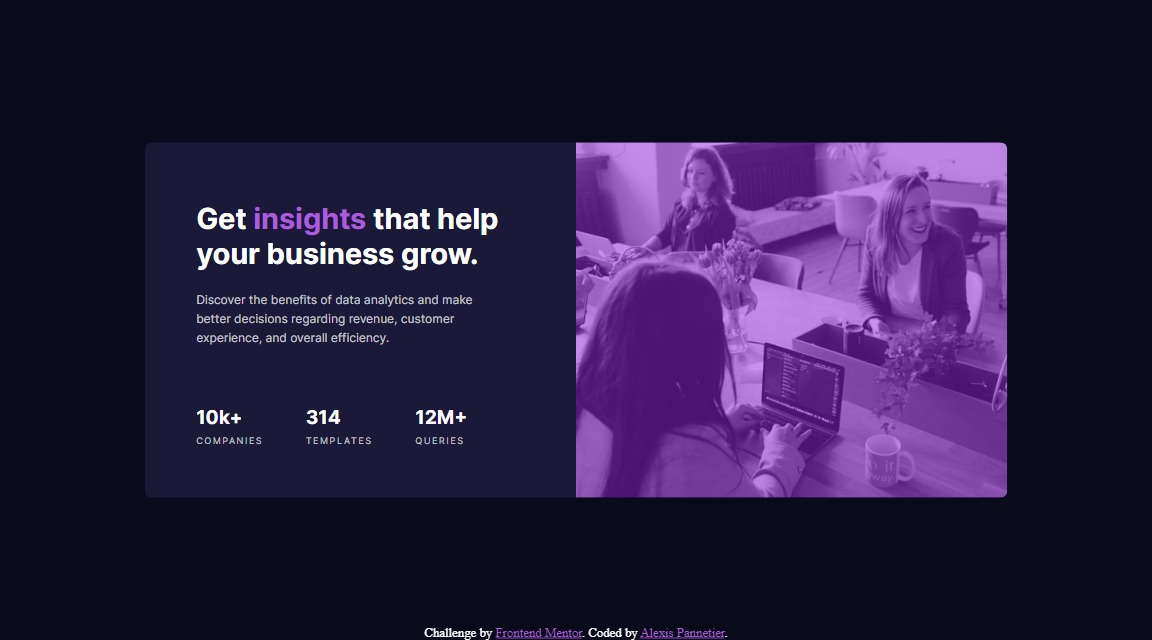
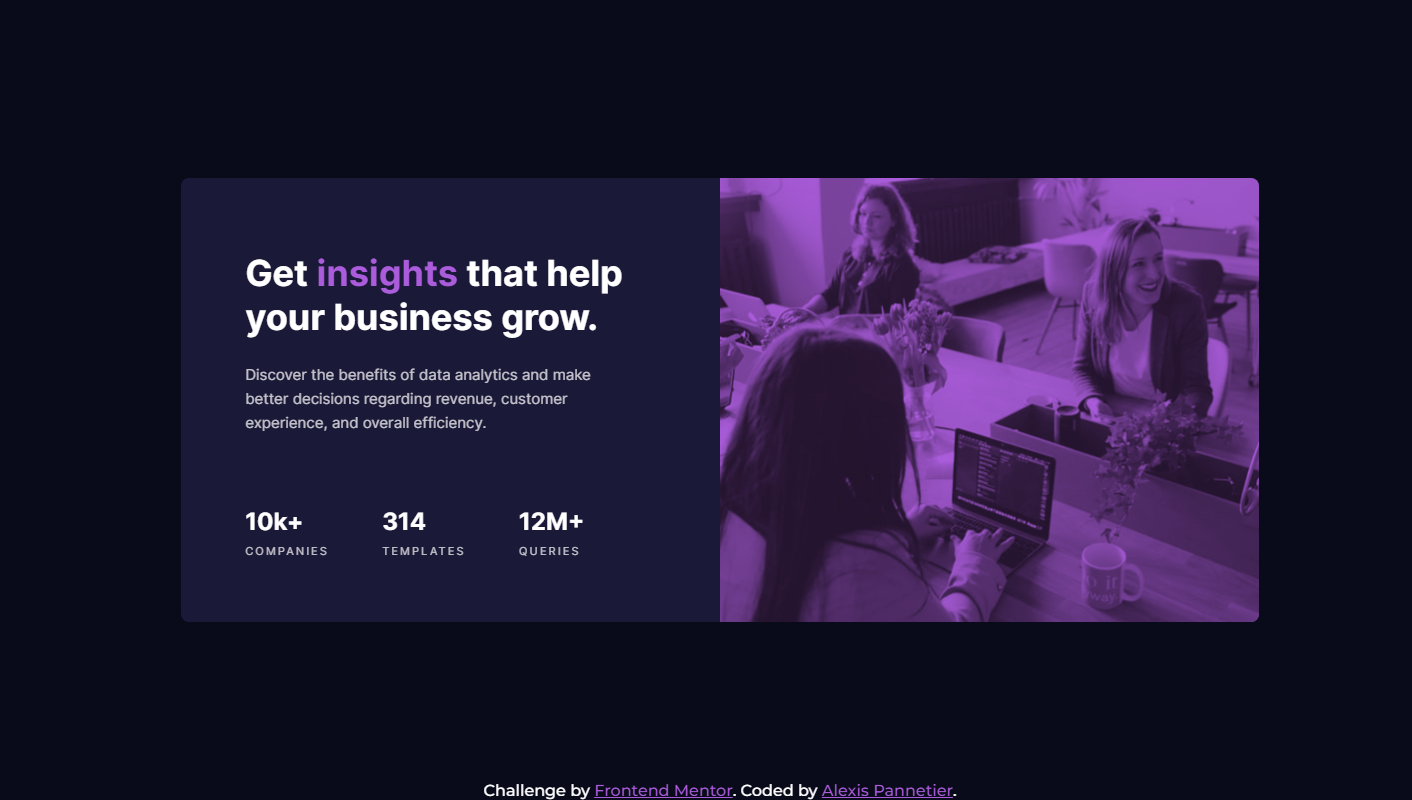
💄 team img updated

diff --git a/style.css b/style.css
@@ -143,7 +143,7 @@ p {
   border-top-left-radius: 0.5rem;
   border-top-right-radius: 0.5rem;
   mix-blend-mode: multiply;
-  opacity: 84%;
+  opacity: 80%;
 }
 
 @media (min-width: 800px) {
